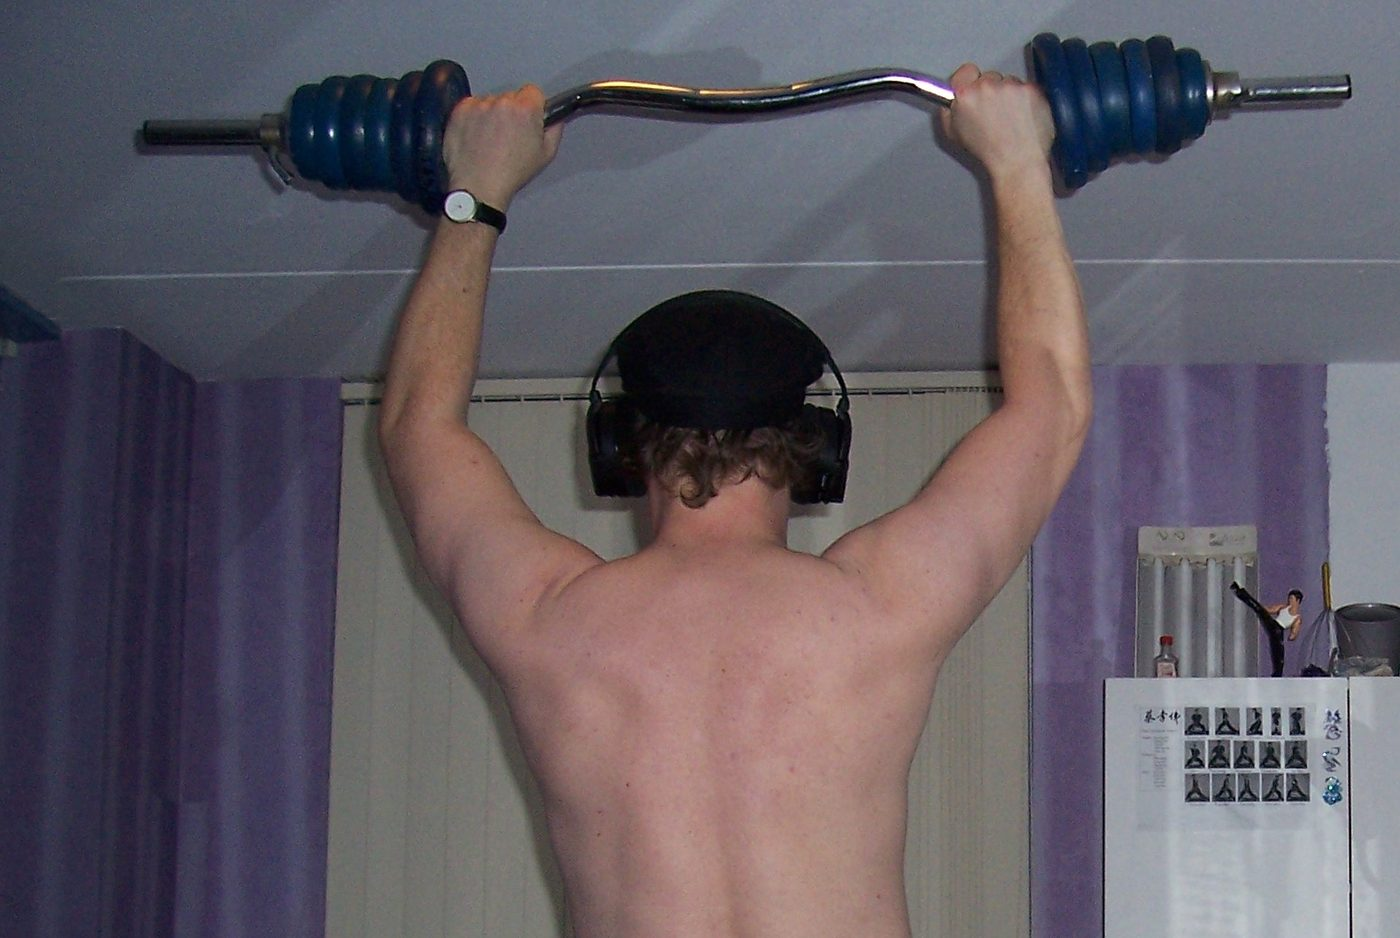
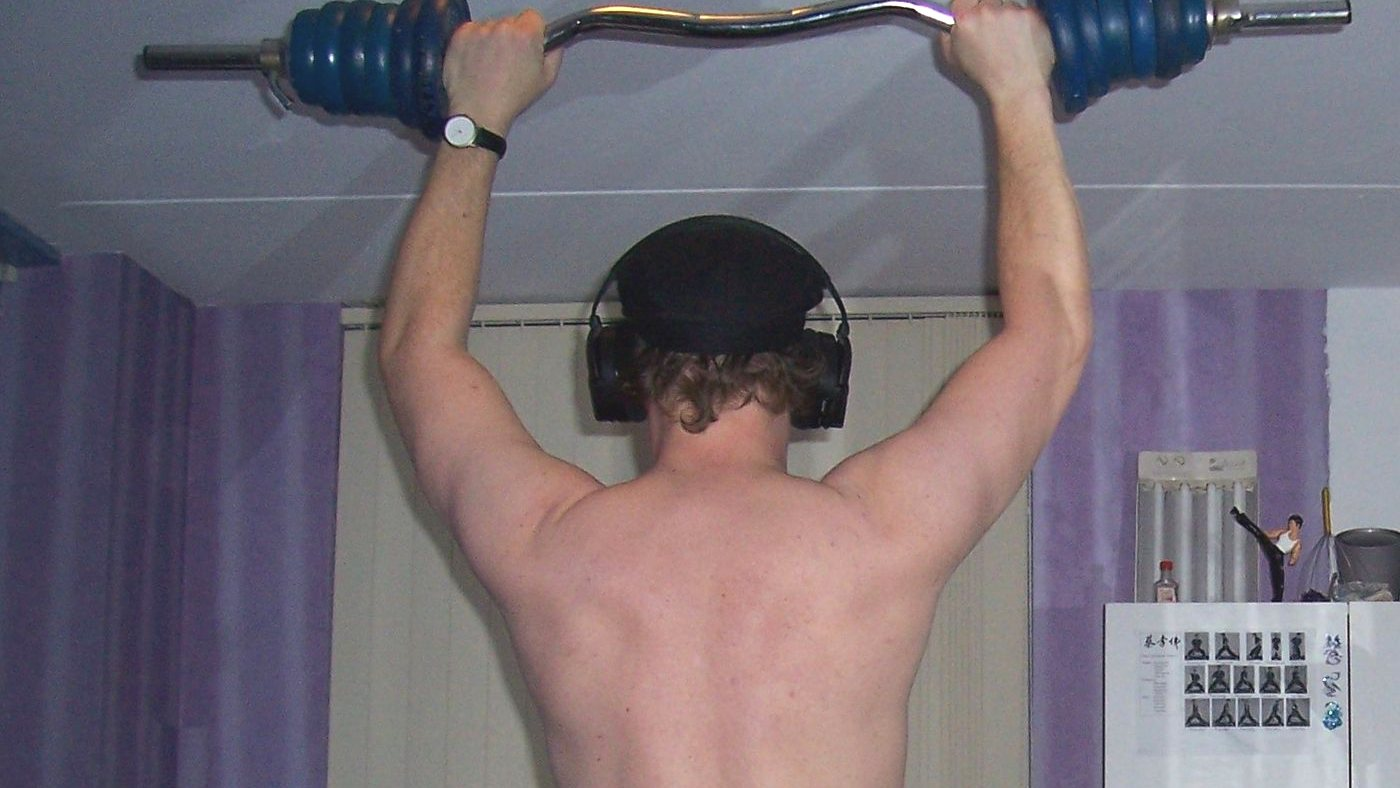
Freebuff: Now I want you to completely improve the exercise media q...

diff --git a/scripts/fetch-exercise-media.ts b/scripts/fetch-exercise-media.ts
@@ -22,8 +22,14 @@ import { EXERCISE_MEDIA } from "../src/data/exercise-media";
 
 /** The details media area renders at ~976px wide; stay above it, never below. */
 const MAX_IMAGE_WIDTH = 1400;
-const POSTER_WIDTH = 800;
+const POSTER_WIDTH = 960;
 const RENDER_WIDTH = 976;
+/** Every asset is normalised to 16:9 so the library shares one frame. */
+const TARGET_ASPECT = 16 / 9;
+/** Shared mean luminance, so no photo is noticeably darker or brighter. */
+const TARGET_LUMA = 118;
+const MAX_LUMA_SHIFT = 40;
+const SATURATION = 1.08;
 const MIN_VIDEO_BYTES = 50_000;
 const MIN_IMAGE_BYTES = 5_000;
 const USER_AGENT =
@@ -84,19 +90,63 @@ function assertWebm(buffer: Buffer, slug: string) {
   }
 }
 
-/** Applies EXIF orientation and caps the width without ever enlarging. */
-async function writeImage(source: Buffer, target: string) {
-  const image = sharp(source).rotate();
-  const { data, info } = await image
+/**
+ * Normalises a photo into the library's shared presentation:
+ * EXIF orientation, capped width (never enlarged), a centre crop to 16:9, and
+ * a uniform luminance/saturation grade.
+ *
+ * `crop` is skipped for assets marked `fit: "contain"`, which are letterboxed
+ * because their source is too small to fill the frame.
+ */
+async function writeImage(
+  source: Buffer,
+  target: string,
+  options: { crop?: boolean } = {},
+) {
+  const { crop = true } = options;
+
+  // Pass 1: apply EXIF orientation and cap the width, never enlarging.
+  const base = await sharp(source)
+    .rotate()
     .resize({ width: MAX_IMAGE_WIDTH, withoutEnlargement: true })
-    .jpeg({ quality: 82, progressive: true })
+    .toBuffer();
+
+  const { width = 0, height = 0 } = await sharp(base).metadata();
+
+  // Pass 2: centre-crop to the shared 16:9 frame (cropping never enlarges).
+  let pipeline = sharp(base);
+  if (crop && width && height) {
+    const cropWidth =
+      width / height > TARGET_ASPECT ? Math.round(height * TARGET_ASPECT) : width;
+    const cropHeight =
+      width / height > TARGET_ASPECT ? height : Math.round(width / TARGET_ASPECT);
+    pipeline = pipeline.resize({
+      width: cropWidth,
+      height: cropHeight,
+      fit: "cover",
+      position: "centre",
+    });
+  }
+
+  // Pass 3: uniform grade so no exercise is much darker or brighter.
+  const stats = await pipeline.clone().stats();
+  const mean = (stats.channels[0].mean + stats.channels[1].mean + stats.channels[2].mean) / 3;
+  const shift = Math.max(
+    -MAX_LUMA_SHIFT,
+    Math.min(MAX_LUMA_SHIFT, TARGET_LUMA - mean),
+  );
+
+  const { data, info } = await pipeline
+    .linear(1, shift)
+    .modulate({ saturation: SATURATION })
+    .jpeg({ quality: 84, progressive: true })
     .toBuffer({ resolveWithObject: true });
 
   if (data.length < MIN_IMAGE_BYTES) {
     throw new Error(`${target}: produced only ${data.length} bytes`);
   }
   await writeFile(target, data);
-  return info;
+  return { ...info, lumaShift: Math.round(shift) };
 }
 
 async function main() {
@@ -121,8 +171,11 @@ async function main() {
           const info = await writeImage(
             Buffer.from(await response.arrayBuffer()),
             outputPath(src),
+            { crop: media.fit !== "contain" },
           );
-          console.log(`${slug.padEnd(22)} photo ${src} -> ${info.width}x${info.height}`);
+          console.log(
+            `${slug.padEnd(22)} photo ${src} -> ${info.width}x${info.height} (letterboxed)`,
+          );
         }
         continue;
       }
@@ -147,7 +200,9 @@ async function main() {
       const original = await download(
         `https://commons.wikimedia.org/wiki/Special:FilePath/${fileName}`,
       );
-      const info = await writeImage(original, outputPath(media.src));
+      const info = await writeImage(original, outputPath(media.src), {
+        crop: media.fit !== "contain",
+      });
       const fits = info.width >= RENDER_WIDTH;
       if (!fits) {
         failures.push(
@@ -155,7 +210,11 @@ async function main() {
         );
       }
       console.log(
-        `${slug.padEnd(22)} photo ${info.width}x${info.height} (${(info.size / 1024).toFixed(0)}KB)${fits ? "" : " TOO NARROW"}`,
+        `${slug.padEnd(22)} photo ${info.width}x${info.height} ar ${(
+          (info.width ?? 0) / (info.height ?? 1)
+        ).toFixed(2)} (${(info.size / 1024).toFixed(0)}KB, luma ${info.lumaShift >= 0 ? "+" : ""}${
+          info.lumaShift
+        })${fits ? "" : " TOO NARROW"}`,
       );
     } catch (error) {
       failures.push(`${slug}: ${(error as Error).message}`);

diff --git a/src/data/exercise-media.ts b/src/data/exercise-media.ts
@@ -3,11 +3,16 @@
  * the Exercise Details page use, so a card, its route and its media can never
  * drift apart.
  *
- * Media lives in `public/exercises`:
- *  - `video` entries loop a 1280x720 demonstration clip on the details page and
- *    use a poster frame on the card.
- *  - `photo` entries use a 1400px wide photograph on the details page (never
- *    upscaled — the media area renders at ~976px) and the same image on the card.
+ * Media lives in `public/exercises` and is normalised by
+ * `bun run fetch:media` so the whole library shares one look:
+ *  - every photo is EXIF-oriented, centre-cropped to 16:9, capped at 1400px
+ *    wide (never upscaled) and levelled toward a common luminance so no
+ *    exercise is dramatically darker or brighter than the rest;
+ *  - `video` entries loop a 1280x720 demonstration clip and use a 16:9 poster
+ *    frame on the card.
+ *
+ * The only exception is an asset explicitly marked `fit: "contain"`, which is
+ * letterboxed rather than cropped or upscaled.
  *
  * Sources and licences are recorded per asset so credits stay accurate:
  *  - Wikimedia Commons demonstration clips and photographs (CC BY 3.0,
@@ -155,14 +160,11 @@ export const EXERCISE_MEDIA: Record<string, ExerciseMediaRecord> = {
     kind: "photo",
     src: "/exercises/handstand-push-up.jpg",
     cardSrc: "/exercises/handstand-push-up.jpg",
-    // The only source asset is a portrait photograph, so it is letterboxed
-    // rather than cropped to a thin band in the 16:9 media area.
-    fit: "contain",
-    sourceTitle: "Handstand pushup.jpg",
-    sourceUrl: `${COMMONS_FILE}Handstand_pushup.jpg`,
+    sourceTitle: "USMC-102406-M-0058D-001085.jpg",
+    sourceUrl: `${COMMONS_FILE}USMC-102406-M-0058D-001085.jpg`,
     license: "Public domain",
-    licenseUrl: `${COMMONS_FILE}Handstand_pushup.jpg`,
-    author: "U.S. Air Force photo by Senior Airman Seni)",
+    licenseUrl: `${COMMONS_FILE}USMC-102406-M-0058D-001085.jpg`,
+    author: "U.S. Marine Corps photo",
   },
   "lat-pulldown": {
     kind: "photo",
@@ -230,8 +232,7 @@ export const EXERCISE_MEDIA: Record<string, ExerciseMediaRecord> = {
     cardSrc: "/exercises/triceps-pushdown-0.jpg",
     loopFrame: "/exercises/triceps-pushdown-1.jpg",
     // 850px wide — narrower than the media area, so it is letterboxed rather
-    // than upscaled. This is the one exercise with no higher-resolution
-    // free asset available.
+    // than upscaled. No higher-resolution free asset exists for this lift.
     fit: "contain",
     sourceTitle: "Triceps Pushdown (free-exercise-db)",
     sourceUrl:
@@ -336,27 +337,15 @@ export const EXERCISE_MEDIA: Record<string, ExerciseMediaRecord> = {
   },
 };
 
-const EXERCISE_DB_MEDIA = "https://static.exercisedb.dev/media";
-
-/**
- * ExerciseDB demonstration GIFs used on the exercise cards, where a matching
- * clip exists. Cards fall back to the detail media still when it does not.
- */
-export const EXERCISE_CARD_GIFS: Record<string, string> = {
-  "bench-press": `${EXERCISE_DB_MEDIA}/EIeI8Vf.gif`,
-  squat: `${EXERCISE_DB_MEDIA}/Gnfo4FM.gif`,
-  deadlift: `${EXERCISE_DB_MEDIA}/ila4NZS.gif`,
-  "lat-pulldown": `${EXERCISE_DB_MEDIA}/LEprlgG.gif`,
-  "shoulder-press": `${EXERCISE_DB_MEDIA}/q7qkONO.gif`,
-  "biceps-curl": `${EXERCISE_DB_MEDIA}/NbVPDMW.gif`,
-  "triceps-pushdown": `${EXERCISE_DB_MEDIA}/dU605di.gif`,
-  "leg-press": `${EXERCISE_DB_MEDIA}/2Qh2J1e.gif`,
-};
-
 export function getExerciseMedia(slug: string | undefined) {
   return slug ? EXERCISE_MEDIA[slug] : undefined;
 }
 
+/**
+ * Card media always comes from the same asset as the detail page (a poster
+ * frame for videos, the graded 16:9 still for photos), so the grid and the
+ * detail view read as one library.
+ */
 export function getExerciseCardMedia(slug: string) {
-  return EXERCISE_CARD_GIFS[slug] ?? EXERCISE_MEDIA[slug]?.cardSrc;
+  return EXERCISE_MEDIA[slug]?.cardSrc;
 }

diff --git a/scripts/check-media.ts b/scripts/check-media.ts
@@ -15,14 +15,14 @@ import { join } from "node:path";
 import sharp from "sharp";
 
 import { EXERCISES } from "../src/data/exercises";
-import {
-  EXERCISE_CARD_GIFS,
-  EXERCISE_MEDIA,
-} from "../src/data/exercise-media";
+import { EXERCISE_MEDIA } from "../src/data/exercise-media";
 
 /** The details media area renders at ~976x549; cards at ~240x150. */
 const DETAIL_WIDTH = 976;
 const CARD_WIDTH = 240;
+/** Every asset is normalised to 16:9 so the library shares one frame. */
+const TARGET_ASPECT = 16 / 9;
+const ASPECT_TOLERANCE = 0.02;
 const MIN_VIDEO_BYTES = 50_000;
 const MIN_IMAGE_BYTES = 5_000;
 
@@ -108,22 +108,31 @@ for (const exercise of EXERCISES) {
       }
     }
 
-    await checkImage(exercise.slug, "cardSrc", media.cardSrc, CARD_WIDTH);
+    const poster = await checkImage(exercise.slug, "cardSrc", media.cardSrc, CARD_WIDTH);
+    if (poster && Math.abs(poster.width / poster.height - TARGET_ASPECT) > ASPECT_TOLERANCE) {
+      problems.push(
+        `${exercise.slug}: poster frame is ${poster.width}x${poster.height}, not 16:9.`,
+      );
+    }
     continue;
   }
 
   // A photo is upscaled by object-cover unless it is explicitly letterboxed.
+  const letterboxed = media.fit === "contain";
   const detail = await checkImage(
     exercise.slug,
     "src",
     media.src,
-    media.fit === "contain" ? 0 : DETAIL_WIDTH,
+    letterboxed ? 0 : DETAIL_WIDTH,
   );
 
-  if (detail && media.fit !== "contain" && detail.height > detail.width) {
-    problems.push(
-      `${exercise.slug}: detail photo is portrait (${detail.width}x${detail.height}) and will be heavily cropped in the 16:9 media area.`,
-    );
+  if (detail && !letterboxed) {
+    const aspect = detail.width / detail.height;
+    if (Math.abs(aspect - TARGET_ASPECT) > ASPECT_TOLERANCE) {
+      problems.push(
+        `${exercise.slug}: detail photo is ${detail.width}x${detail.height} (aspect ${aspect.toFixed(2)}), not the shared 16:9 frame — it will be cropped differently from the rest of the library.`,
+      );
+    }
   }
 
   if (media.loopFrame) {
@@ -131,12 +140,17 @@ for (const exercise of EXERCISES) {
   }
 }
 
-for (const [slug, gif] of Object.entries(EXERCISE_CARD_GIFS)) {
-  if (!slugs.has(slug)) {
-    problems.push(`EXERCISE_CARD_GIFS has "${slug}", which is not an exercise slug.`);
-  }
-  if (!gif.startsWith("https://")) {
-    problems.push(`EXERCISE_CARD_GIFS["${slug}"] should be a remote GIF URL.`);
+for (const [slug, media] of Object.entries(EXERCISE_MEDIA)) {
+  for (const [label, src] of [
+    ["src", media.src],
+    ["cardSrc", media.cardSrc],
+    ["loopFrame", media.loopFrame],
+  ] as const) {
+    if (src?.startsWith("http")) {
+      problems.push(
+        `${slug}: ${label} points at a remote URL (${src}) — library media must be served from public/exercises.`,
+      );
+    }
   }
 }
 

diff --git a/src/components/exercises/ExerciseMedia.tsx b/src/components/exercises/ExerciseMedia.tsx
@@ -36,11 +36,9 @@ export function ExerciseCardMedia({
   const src = getExerciseCardMedia(slug);
   const [failed, setFailed] = useState(false);
   const showMedia = Boolean(src) && !failed;
-  // ExerciseDB GIFs are square, so they stay padded to keep the full movement
-  // visible; landscape stills fill the card instead.
-  const fit = src?.endsWith(".gif")
-    ? "object-contain p-3 sm:p-4"
-    : "object-cover";
+  // Cards use the same graded 16:9 asset as the detail page, so the grid and
+  // the detail view read as one library.
+  const fit = "object-cover";
 
   return (
     <div className="relative flex aspect-[16/10] items-center justify-center overflow-hidden bg-gradient-to-br from-primary/15 via-muted to-card">
